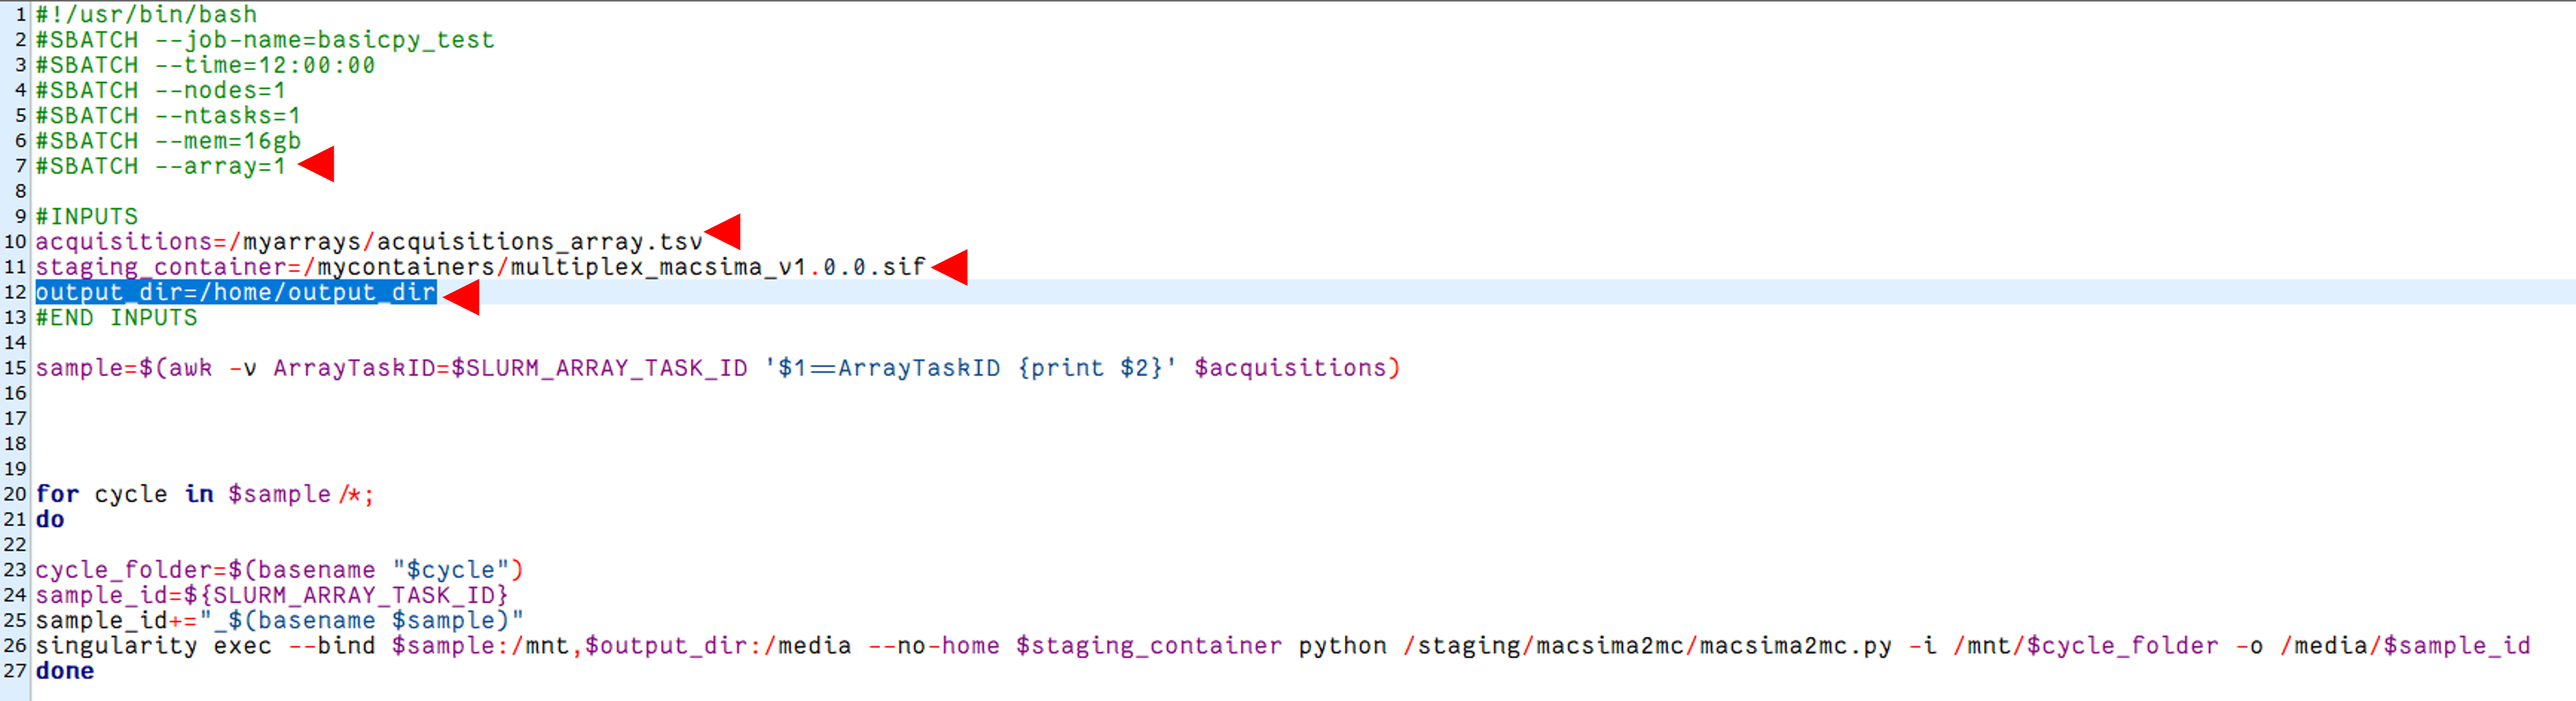
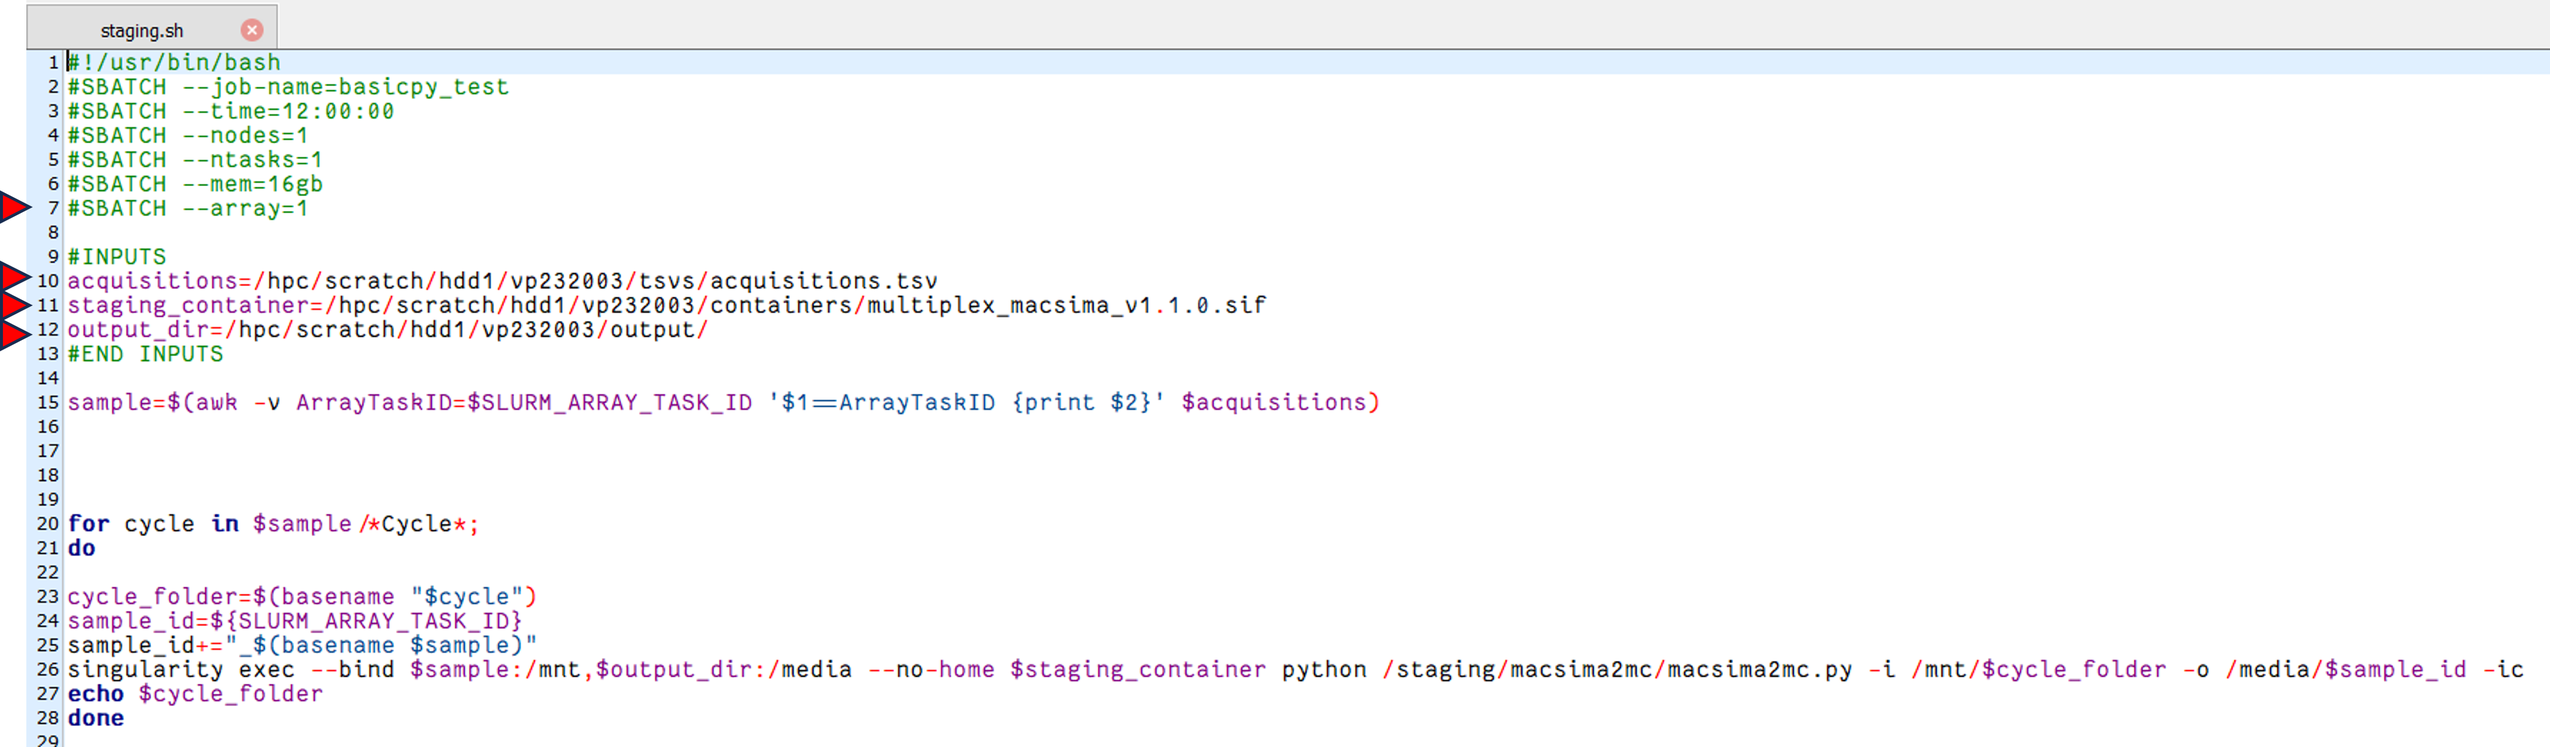
added figures and updated README.md

Changed region(s): [[0.0, 0.0, 1.0, 1.0]]

diff --git a/README.md b/README.md
@@ -1,32 +1,33 @@
 # MACSIMA pipeline for hpc usage
-This repo describes how to use [MCMICRO] (https://mcmicro.org/) to process multiplexed-images generated with the MACSima platform.  The instructions below focus on the execution of the pipeline in the hpc.
+This repo describes how to use [MCMICRO] (https://mcmicro.org/) to process multiplexed-images generated with the MACSima platform.  The instructions below focus on the execution of the pipeline in the hpc and slurm as job scheduler.
 The repo contains the necessary bash scripts (sh) and config files to execute the pipeline.
 
-This repo has been created as a temporary solution to process MACSima data with the current [MCMICRO](https://mcmicro.org/) version.  A more robust solution
+This repo has been created as a temporary solution to process MACSima data with the current [MCMICRO](https://mcmicro.org/) version.  A more usage convenient solution is on the works as part of the upcoming [nf-core/mcmicro](https://nf-co.re/mcmicro/dev).
+
 ## Usage instructions:
-Two steps are to be implemented. In the first one the raw tiles are staged so they can be directly used as input for ASHLAR, which is the registration and stitching algorithm used by MCMICRO.  What the staging step does is reorder the raw tiles of a cycle, all tiles of a cycle and common rack, roi,well and exposure time will be written in the single file with their corresponding ome metadata.  
+Two steps are to be implemented. In the first one the raw tiles are staged so they can be directly used as input for ASHLAR, which is the registration and stitching algorithm used by MCMICRO. 
+
+What the staging step does is reorder the raw tiles of a cycle, all tiles of a cycle that are acquired with a common rack, roi,well and exposure level will be written in the single file with their corresponding ome metadata.  
 
 The second step is simply the execution of MCMICRO with a specific set of parameters.
 
-
-
 1. **Staging**
 
-    1. **Download the container (v1.1.0) of macsima2mc**  with the following command:
+    1. Download the container (v1.1.0) of macsima2mc  with the following command:
     ``` 
     singularity pull docker://ghcr.io/schapirolabor/multiplex_macsima:v1.1.0 
     ```
 
-    2. **Create a tab separated sample array file** (e.g. *acquisitions.tsv*) with two columns: ArrayTaskID and Sample.  Each row of the first column is an integer number that represents the TaskID.  The rows of the second column are the absolute path of the folder that contains the **N** cycles of the acquisition.  As of now, the content of this latter folder contains multiple folders with the name x_Cycle**N**.  See the images below for reference of the *acquisitions.tsv* file and the cycles folder, in this representative example we apply the pipeline to the cycles in the folder *mydir/acquisition_A*.
+    2. Create a tab separated sample array file (e.g. *acquisitions.tsv*) with two columns: ArrayTaskID and Sample.  Each row of the first column is an integer number that represents the TaskID.  The rows of the second column are the absolute path of the folder that contains the *N* cycles of the acquisition.  As of now, the content of this latter folder contains multiple folders with the name x_Cycle*N*.  See the images below for reference of the *acquisitions.tsv* file and the cycles folder, in this representative example we apply the pipeline to the cycles in the folder *mydir/acquisition_A*.
 
     ![Screenshot of the sample array file](https://github.com/SchapiroLabor/macsima_pipeline/blob/main/figs/sample_array_tsv_example.PNG)
 
     ![Screenshot of cycles inside acquisition_A](https://github.com/SchapiroLabor/macsima_pipeline/blob/main/figs/acquisition_A.png?raw=true)
 
 
-    3. **Create a directory for the outputs** of macsima2mc, e.g. *output_dir*. 
+    3. Create a directory for the outputs of macsima2mc, e.g. *output_dir*. 
 
-    4. **Specify the inputs**, open the staging.sh file (see figure below,red arrows) and specify the following inputs:
+    4. Specify the inputs, open the staging.sh file (see figure below,red arrows) and specify the following inputs:
 
         - SBATCH --array=1 : range of samples from the ArrayTaskID on which the staging will be applied.  In this example we only have ID 1. If m samples then,```SBATCH --array=1-m```.
 
@@ -37,11 +38,11 @@ The second step is simply the execution of MCMICRO with a specific set of parame
 
         ![Screenshot of staging.sh](https://github.com/SchapiroLabor/macsima_pipeline/blob/main/figs/staging_sh_screenshot.PNG?raw=true)
 
-    5. **Save the changes to the staging.sh file and run it**:
+    5. Save the changes to the staging.sh file and run it:
     ``` 
     sbatch staging.sh
     ``` 
-    6. **Outputs**, once the staging script is over, the restructured MACSima data sets will be found in the *output_dir*:
+    6. Outputs, once the staging script is over, the restructured MACSima data sets will be found in the *output_dir*:
 
         - a folder per acquisition group will be created in there.  An acquisition group is an image data set with the same acquisition conditions in terms of rack_number, well_number, roi_number and exposure levels,  in our example there are two such groups, *rack-01-well-B01-roi-001-exp-1* and *rack-01-well-B01-roi-001-exp-2*.  rack, well and roi are extracted from the information in the raw tiles but the exposure level is a ranking from lower to highest exposure time generated by the [macsima2mc](https://github.com/SchapiroLabor/multiplex_macsima/tree/main/macsima2mc) tool.  The actual exposure time in ms can be found in the metadata of the following output.  
 
@@ -49,7 +50,7 @@ The second step is simply the execution of MCMICRO with a specific set of parame
 
         - A file markers.csv inside each acquisition group folder.  This file is a necessary input for the next processing step, which is running MCMICRO.
 
-    7. **Important notes**
+    7. Important notes
 
         - In the staging.sh script provided here, the flag -ic of the macsima2mc script is activated, this means that the tiles will be illumination-corrected when running macsima2mc,i.e. the ome.tiff images in raw are already corrected tiles and the file name will be tagged with the prefix *corr*.  The illumination profiles used for the correction are generated with basicpy [BaSiCPy](https://pypi.org/project/BaSiCPy/).
         - Do not move the markers.csv files to other location, MCMICRO expectes them to be at the same level of the raw folder. 
